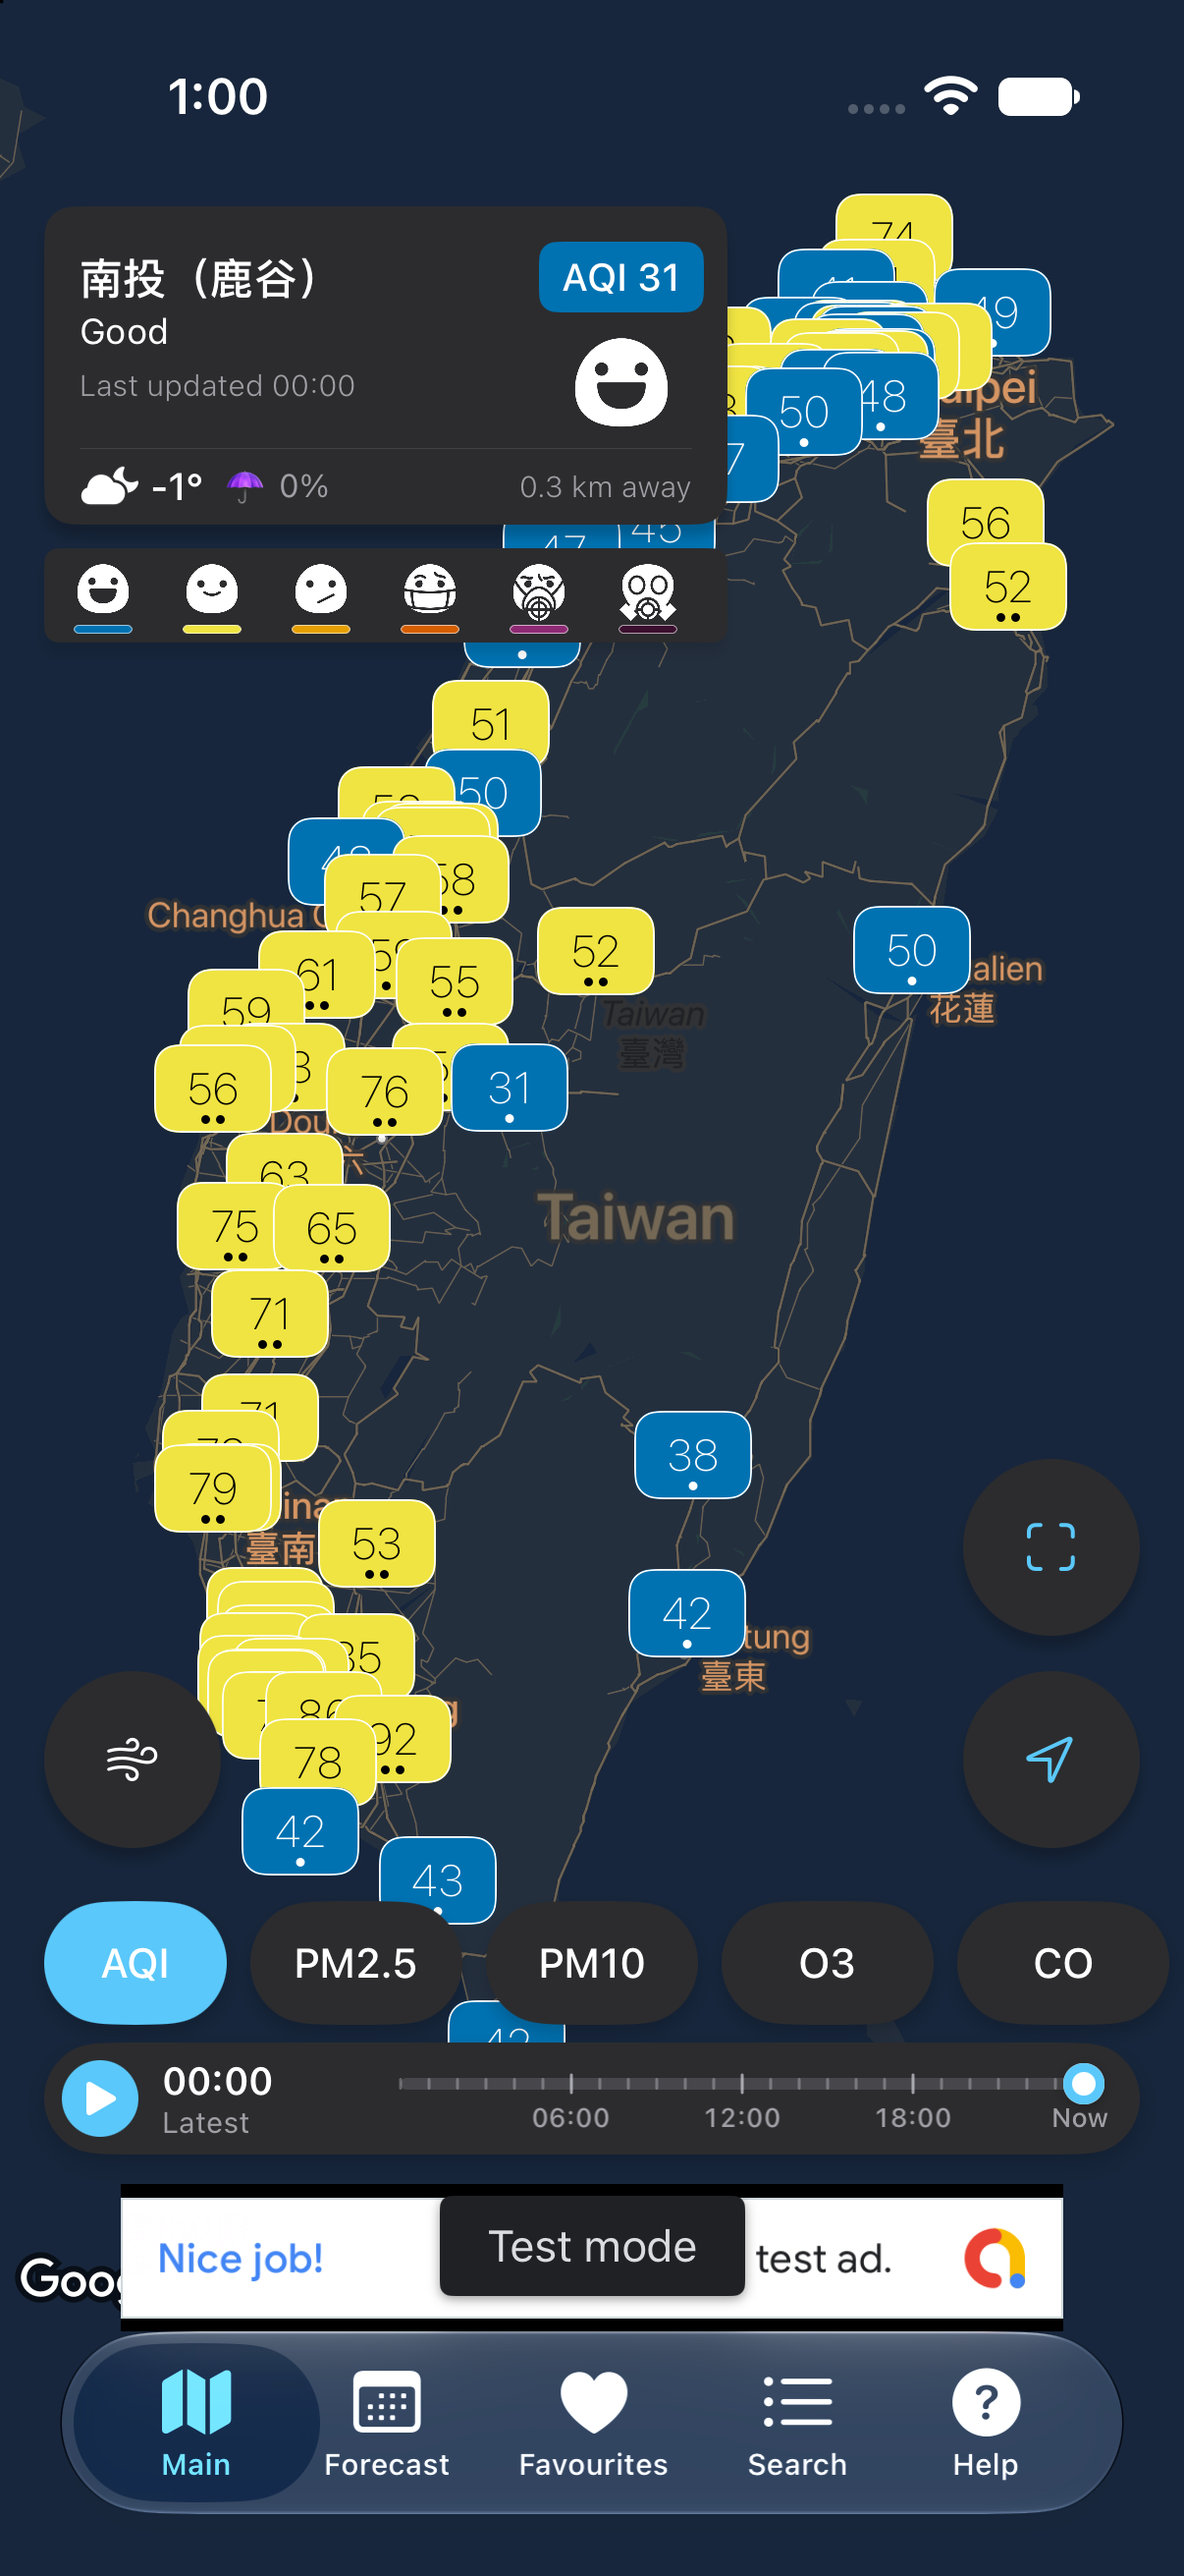
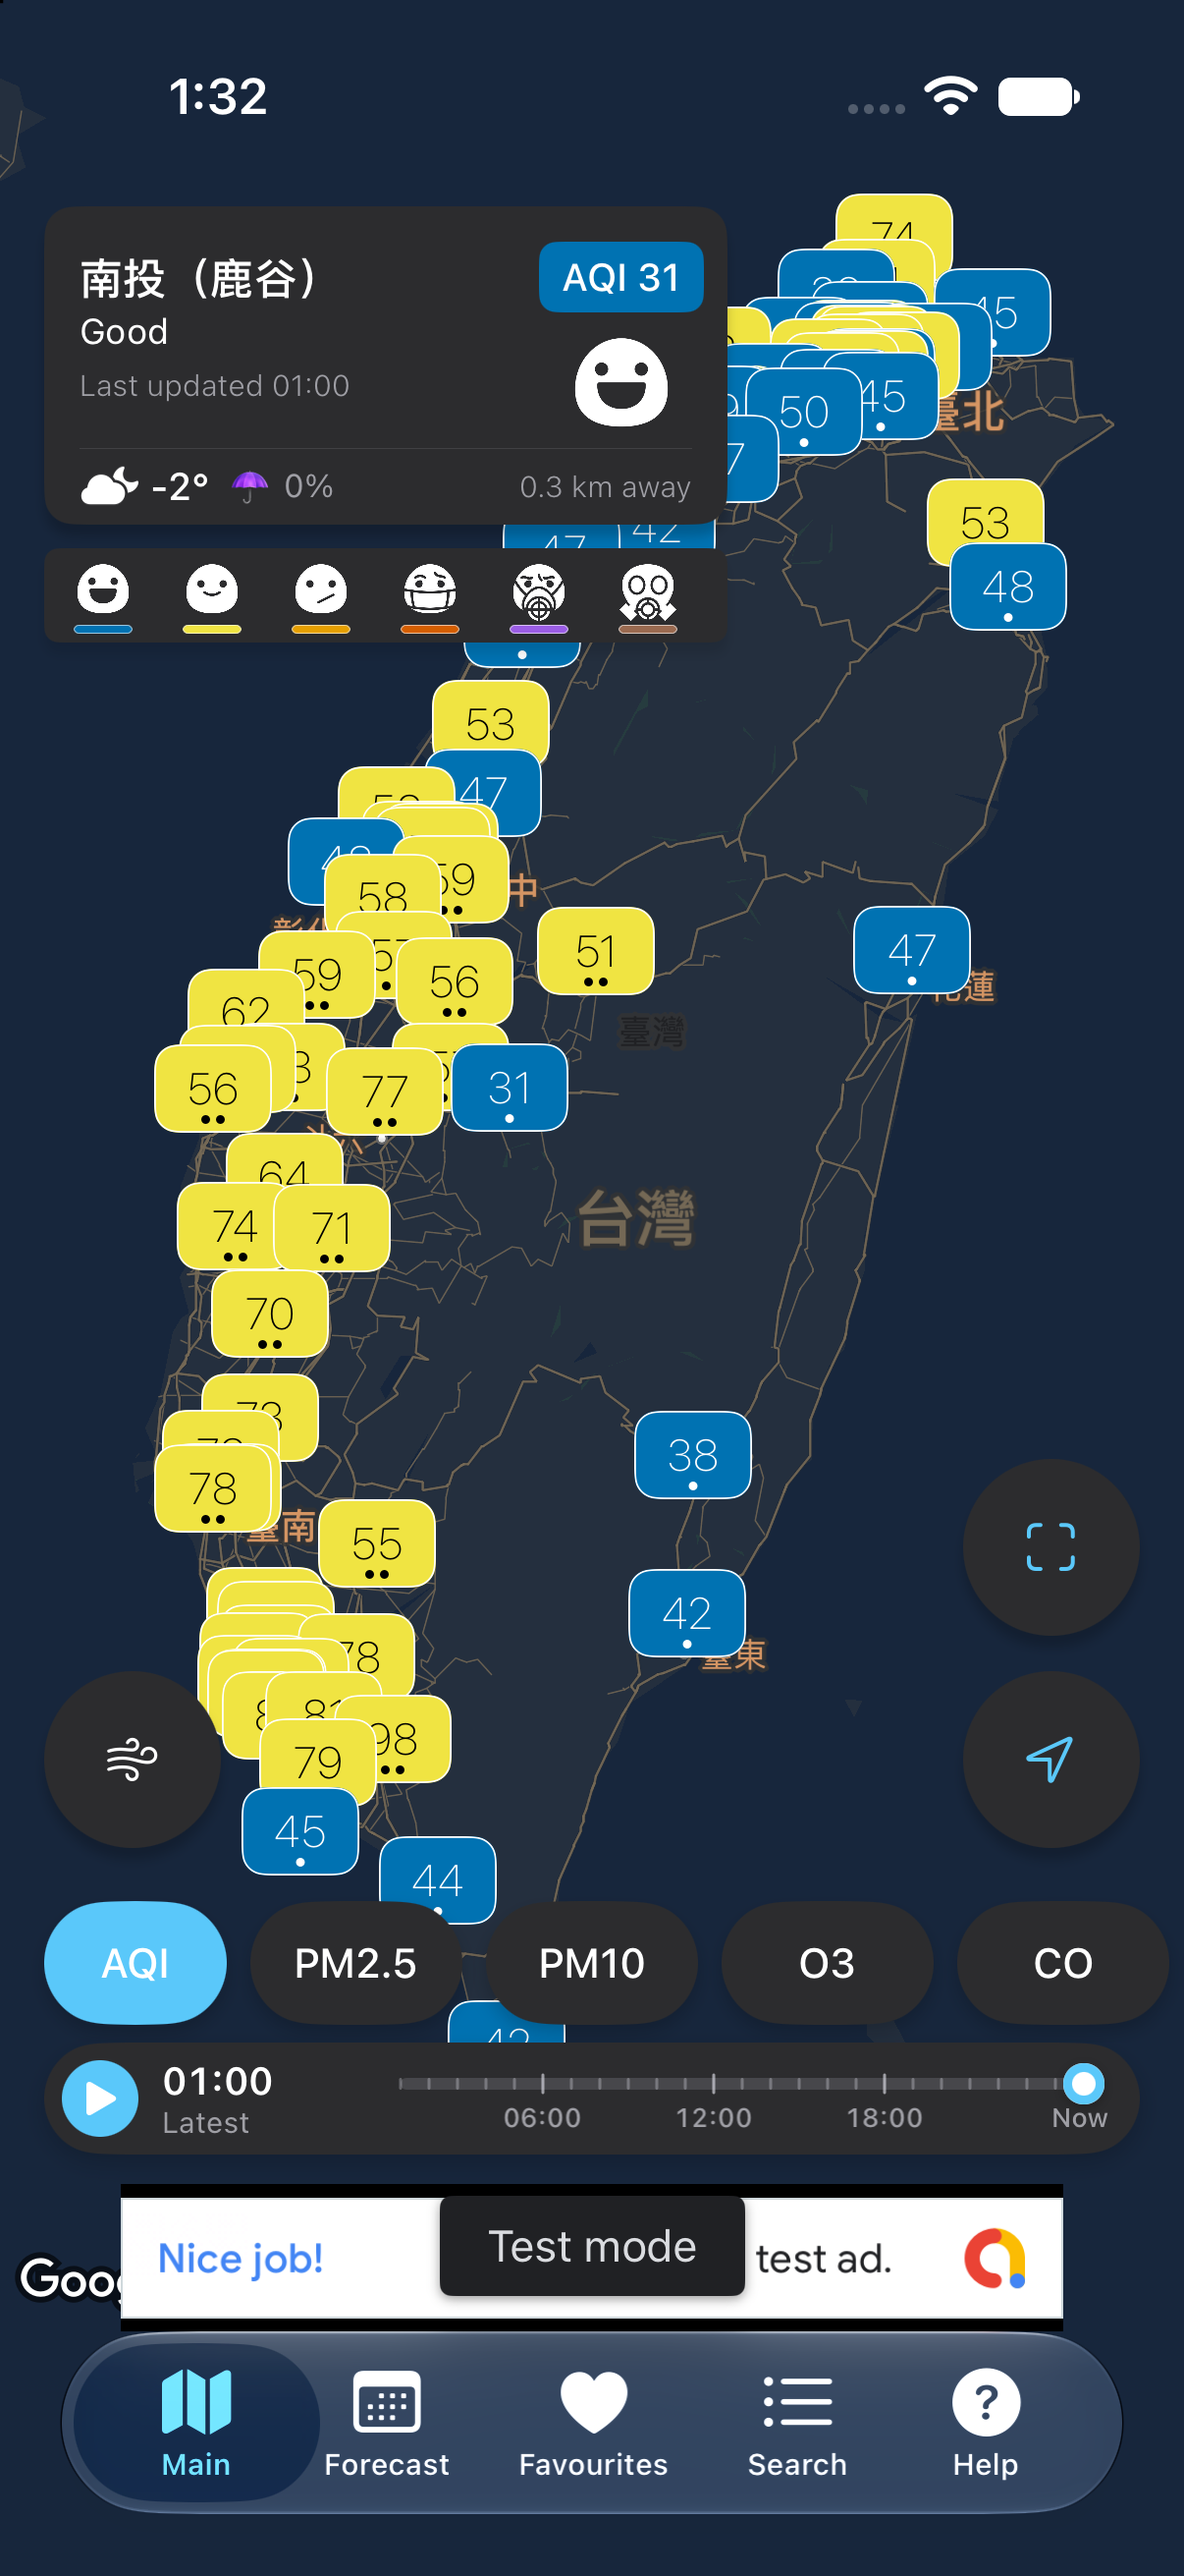
TWAQ-18: colour-blind violet/brown for the top levels, apart from good blue under red-green deficiency; retake screenshots

diff --git a/ios/TWAQITests/AQIPaletteTests.swift b/ios/TWAQITests/AQIPaletteTests.swift
@@ -81,6 +81,34 @@ final class AQIPaletteTests: XCTestCase {
         }
     }
 
+    /// Levels must stay apart under protanopia and deuteranopia (Machado 2009,
+    /// full severity): distance between the simulated sRGB colours, 0…441.
+    func testColourBlindPaletteLevelsStayApartUnderRedGreenDeficiency() {
+        let protan: [[Double]] = [[0.152286, 1.052583, -0.204868], [0.114503, 0.786281, 0.099216], [-0.003882, -0.048116, 1.051998]]
+        let deutan: [[Double]] = [[0.367322, 0.860646, -0.227968], [0.280085, 0.672501, 0.047413], [-0.011820, 0.042940, 0.968881]]
+
+        func simulated(_ rgb: UInt32, _ m: [[Double]]) -> [Double] {
+            let linear = [16, 8, 0].map { shift -> Double in
+                let c = Double((rgb >> UInt32(shift)) & 0xFF) / 255
+                return c <= 0.04045 ? c / 12.92 : pow((c + 0.055) / 1.055, 2.4)
+            }
+            return m.map { row in
+                let v = min(1, max(0, zip(row, linear).map(*).reduce(0, +)))
+                return 255 * (v <= 0.0031308 ? 12.92 * v : 1.055 * pow(v, 1 / 2.4) - 0.055)
+            }
+        }
+
+        let colors = AirStatuses.getShowAllCases().map { $0.getColor(palette: .colorBlindSafe) }
+        for m in [protan, deutan] {
+            for (i, a) in colors.enumerated() {
+                for b in colors[(i + 1)...] {
+                    let distance = zip(simulated(a, m), simulated(b, m)).map { ($0 - $1) * ($0 - $1) }.reduce(0, +).squareRoot()
+                    XCTAssertGreaterThanOrEqual(distance, 50, "\(String(a, radix: 16)) vs \(String(b, radix: 16))")
+                }
+            }
+        }
+    }
+
     func testContrastMaths() {
         XCTAssertEqual(AQIContrast.ratio(0xFFFFFF, 0x000000), 21, accuracy: 0.01)
         XCTAssertEqual(AQIContrast.ratio(0x777777, 0x777777), 1, accuracy: 0.001)

diff --git a/ios/TWAQI/Constants/AirStatusTypes.swift b/ios/TWAQI/Constants/AirStatusTypes.swift
@@ -182,8 +182,10 @@ enum AirStatuses: String, CaseIterable, Hashable {
 enum AQIPalette: String, CaseIterable, Identifiable {
     /// The official colours.
     case standard
-    /// Blue → yellow → orange → vermilion → purple, picked from the Okabe–Ito
-    /// set so the levels stay apart under red–green colour blindness.
+    /// Okabe–Ito blue, yellow, orange and vermilion for the first four
+    /// levels, then a violet and a brown that stay apart from them under
+    /// red–green colour blindness and stay visible (3:1) on white and on the
+    /// dark system background, where rows and widgets draw the colour as text.
     case colorBlindSafe
 
     static let defaultsKey = "aqiPalette"
@@ -208,8 +210,8 @@ enum AQIPalette: String, CaseIterable, Identifiable {
             case .moderate: return 0xF0E442
             case .unhealthyforsensitivegroup: return 0xE69F00
             case .unhealthy: return 0xD55E00
-            case .veryunhealthy: return 0xB5559A
-            case .hazardous: return 0x7B61D6
+            case .veryunhealthy: return 0x9B5DE5
+            case .hazardous: return 0x9A6A50
             case .unknown: return 0x676767
             }
         }
